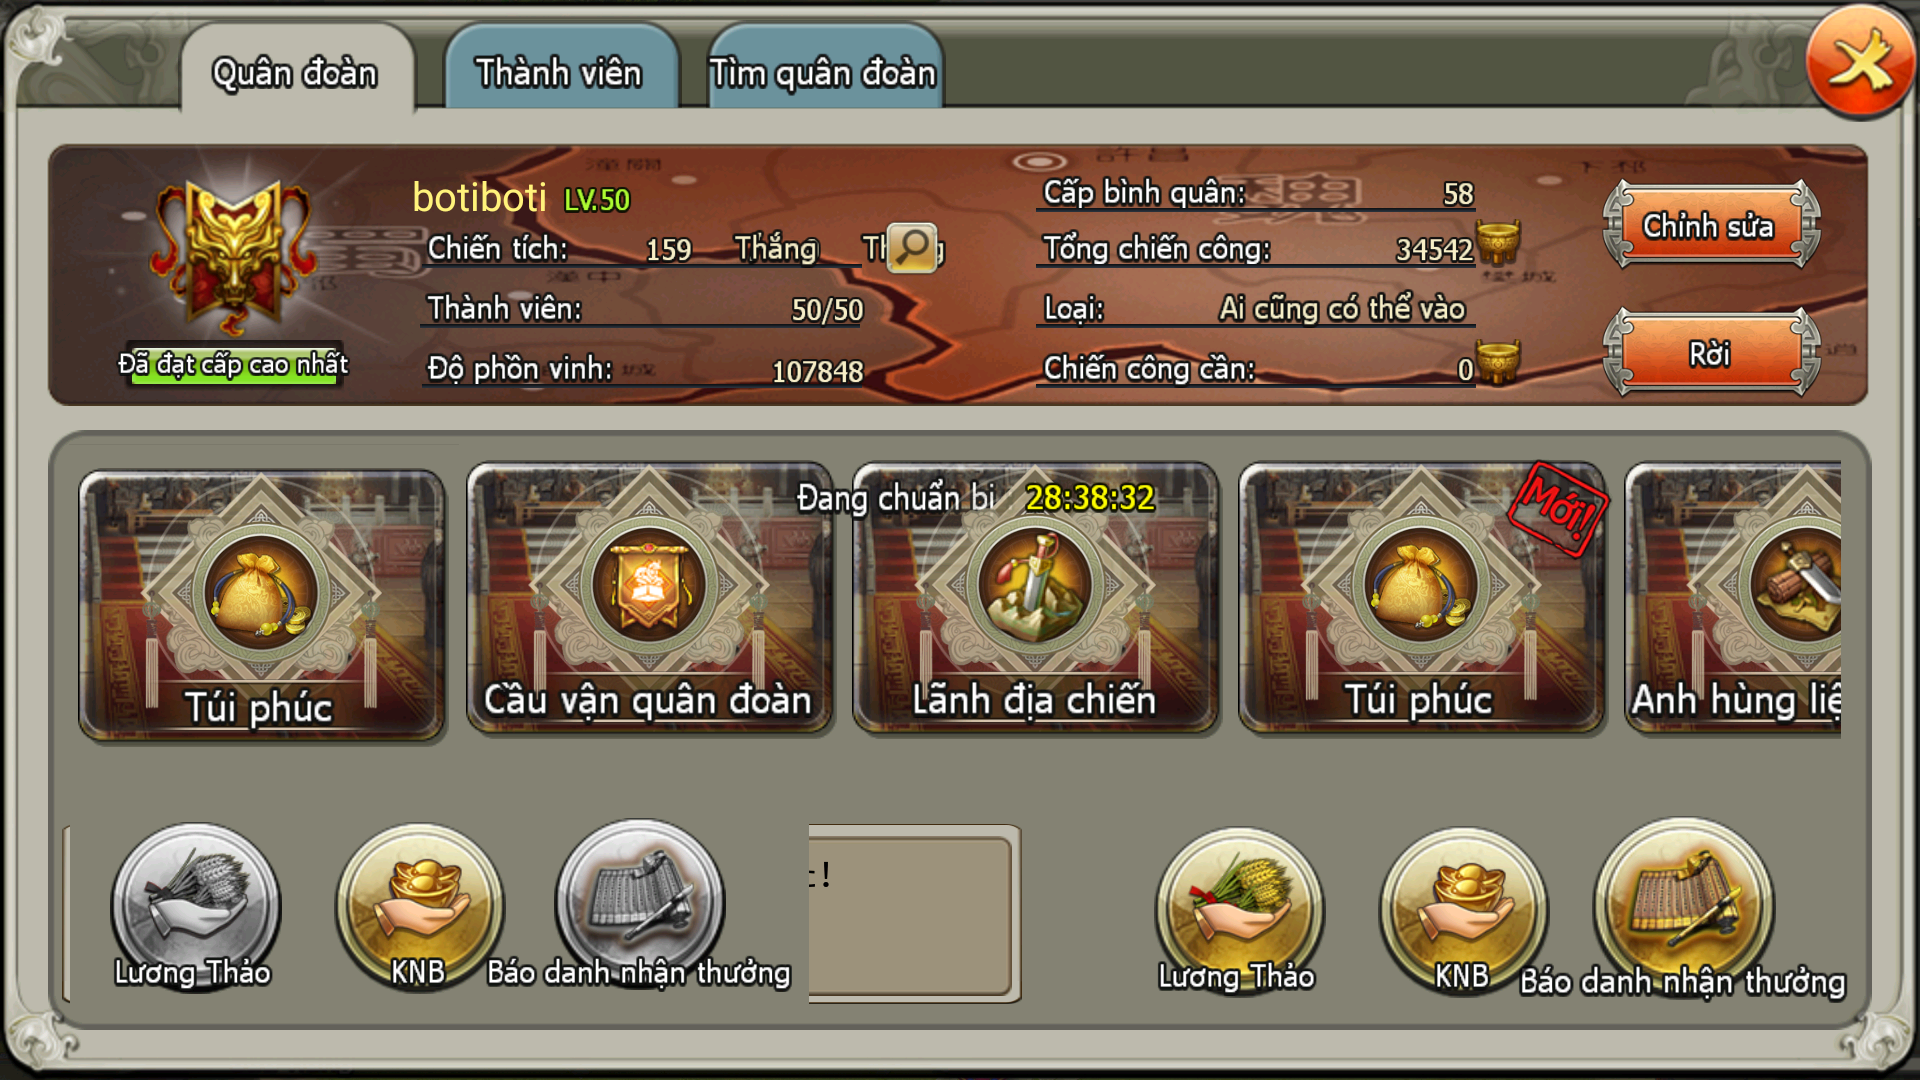
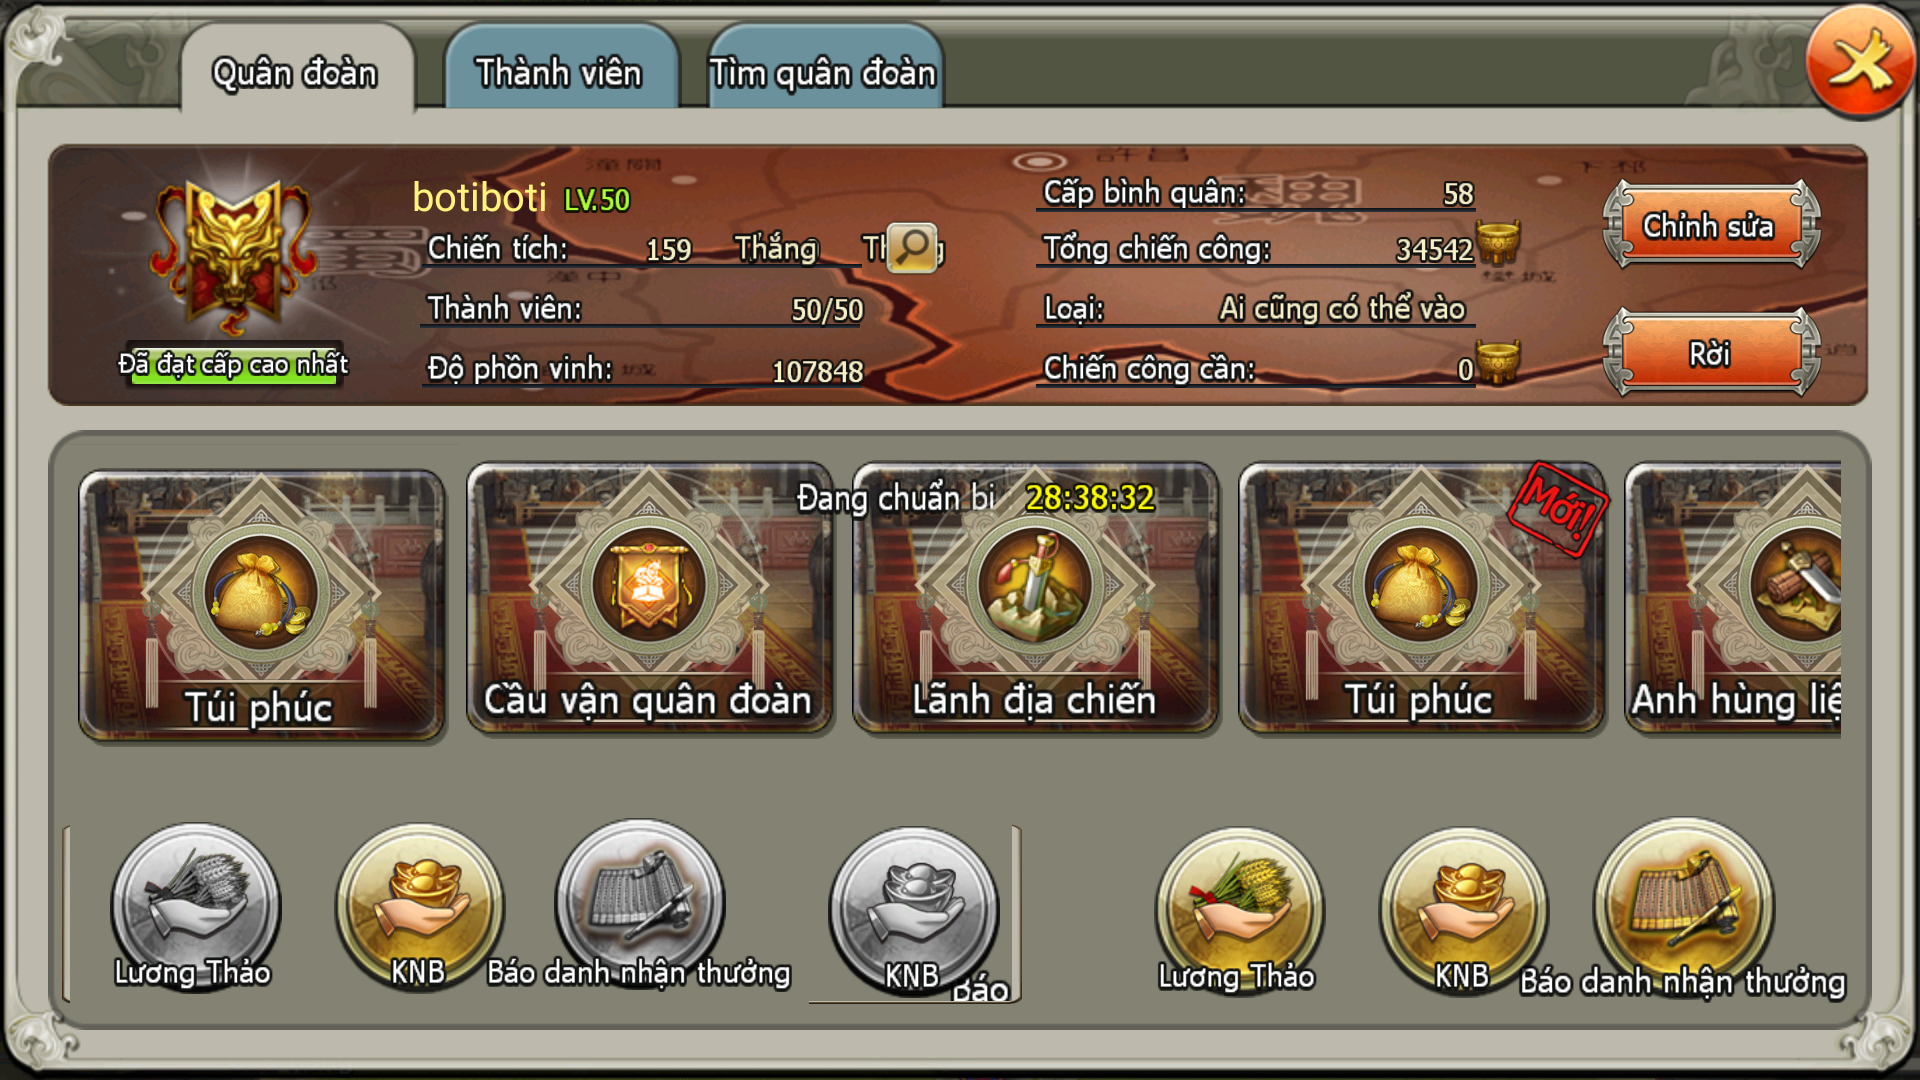
atr

Changed region(s): [[0.4062, 0.7639, 0.5312, 0.9472]]

diff --git a/dctq_auto/tasks/common/guild/task_knb.py b/dctq_auto/tasks/common/guild/task_knb.py
@@ -8,6 +8,7 @@ import numpy as np
 from dctq_auto.config.constants import (
     _STEP_QUAN_DOAN_DONG_GOP_KNB,
     _TEMPLATE_QUAN_DOAN_DONG_GOP_KNB,
+    _TEMPLATE_QUAN_DOAN_CHUA_DU_DIEU_KIEN_DONG_GOP_KNB,
     _TEMPLATE_QUAN_DOAN_MAN_HINH_DONG_GOP_KNB,
     _TEMPLATE_QUAN_DOAN_DONG_GOP_10_KNB,
     _TEMPLATE_QUAN_DOAN_DONG_GOP_20_KNB,
@@ -25,6 +26,7 @@ def get_template_names(steps) -> list[str]:
         return []
 
     return [
+        _TEMPLATE_QUAN_DOAN_CHUA_DU_DIEU_KIEN_DONG_GOP_KNB,
         _TEMPLATE_QUAN_DOAN_DONG_GOP_KNB,
         _TEMPLATE_QUAN_DOAN_DONG_GOP_10_KNB,
         _TEMPLATE_QUAN_DOAN_DONG_GOP_20_KNB,
@@ -118,6 +120,12 @@ def _run(
             "Không xác định được trạng thái đóng góp KNB; dừng và bỏ step.",
         )
 
+    if template_name == _TEMPLATE_QUAN_DOAN_CHUA_DU_DIEU_KIEN_DONG_GOP_KNB:
+        return _finish_step(
+            steps, account, log,
+            "Không đủ điều kiện đóng góp KNB; dừng và bỏ step.",
+        )
+
     if template_name == _TEMPLATE_QUAN_DOAN_DONG_GOP_40_KNB:
         return _finish_step(
             steps, account, log,
@@ -125,7 +133,7 @@ def _run(
         )
 
     if template_name == _TEMPLATE_QUAN_DOAN_DONG_GOP_KNB:
-        _tap_match_center(device, match, account, log, "[Quân đoàn] - Click đóng góp KNB")
+        _tap_match_center(device, match, account, log, f"[Quân đoàn] - Click đóng góp KNB - {current_try} lần")
         return _run(
             worker, account, steps, device, ocr_client, log, None,
             templates, skipped_templates, current_try = current_try + 1

diff --git a/dctq_auto/config/constants.py b/dctq_auto/config/constants.py
@@ -37,6 +37,7 @@ _TEMPLATE_QUAN_DOAN_DA_BAO_DANH = "quan_doan/quan_doan_da_bao_danh"
 _TEMPLATE_QUAN_DOAN_CHUA_DONG_GOP_LUONG_THAO = "quan_doan/quan_doan_chua_dong_gop_luong_thao"
 _TEMPLATE_QUAN_DOAN_DA_DONG_GOP_LUONG_THAO = "quan_doan/quan_doan_da_dong_gop_luong_thao"
 _TEMPLATE_QUAN_DOAN_DONG_GOP_KNB = "quan_doan/quan_doan_dong_gop_knb"
+_TEMPLATE_QUAN_DOAN_CHUA_DU_DIEU_KIEN_DONG_GOP_KNB = "quan_doan/quan_doan_chua_du_dieu_kien_dong_gop_knb"
 
 # Template dùng bên trong màn hình Cầu vận Quân đoàn.
 _TEMPLATE_QUAN_DOAN_MAN_HINH_CAU_VAN = "quan_doan.cau_van/quan_doan_man_hinh_cau_van"

diff --git a/dctq_auto/tasks/common/guild/task_donate_rations.py b/dctq_auto/tasks/common/guild/task_donate_rations.py
@@ -32,9 +32,9 @@ def get_template_names(steps) -> list[str]:
         _TEMPLATE_QUAN_DOAN_DA_DONG_GOP_LUONG_THAO,
         #
         _TEMPLATE_QUAN_DOAN_MAN_HINH_DONG_GOP_LUONG_THAO,
-        _TEMPLATE_QUAN_DOAN_DONG_MAN_HINH_DONG_GOP_LUONG_THAO,
         _TEMPLATE_QUAN_DOAN_LAY_THEM_LUONG_THAO_KNB,
         _TEMPLATE_QUAN_DOAN_DUNG_NHANH,
+        _TEMPLATE_QUAN_DOAN_DONG_MAN_HINH_DONG_GOP_LUONG_THAO,
         _TEMPLATE_QUAN_DOAN_MAN_HINH_CHINH, # fallback
     ]
 
